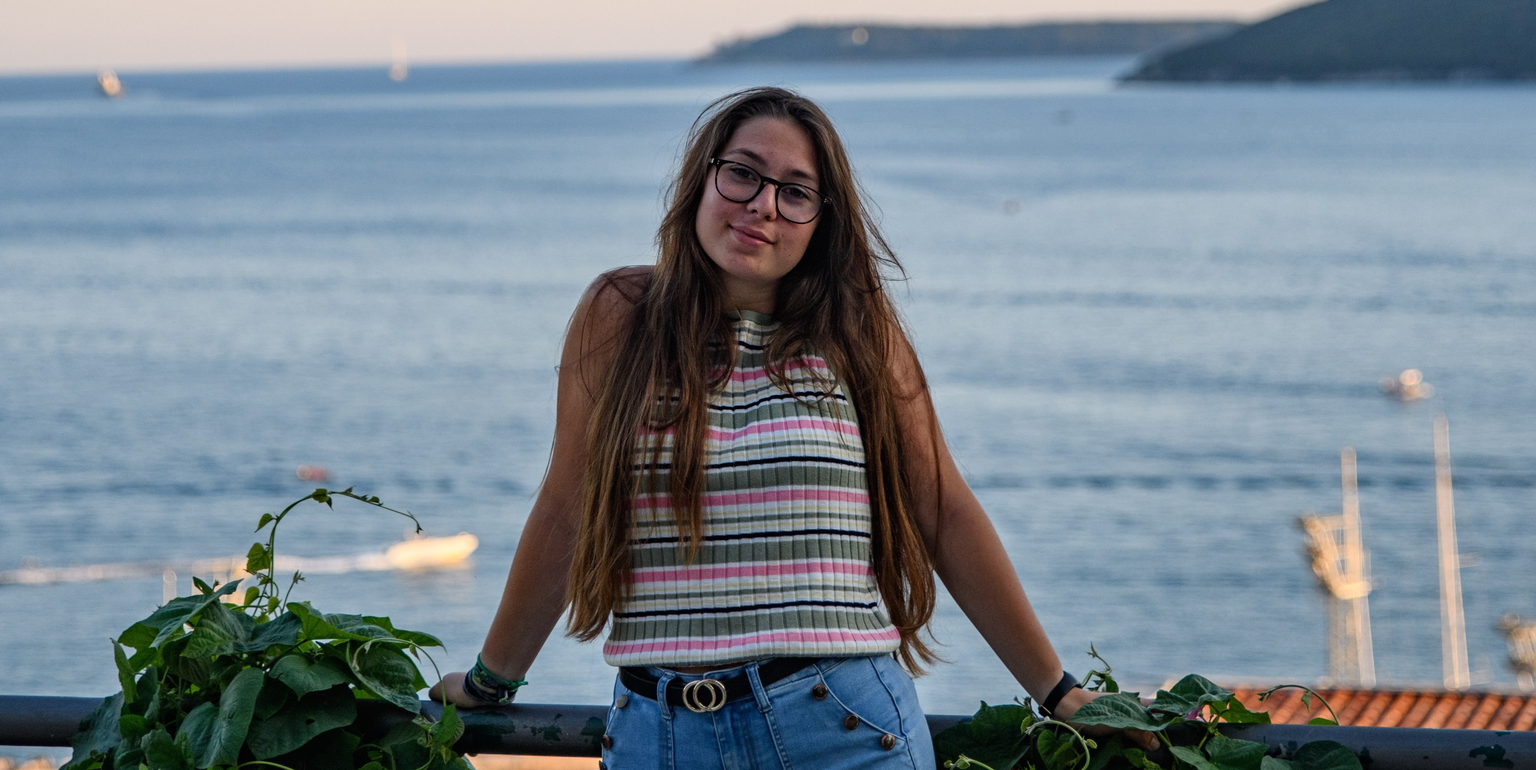
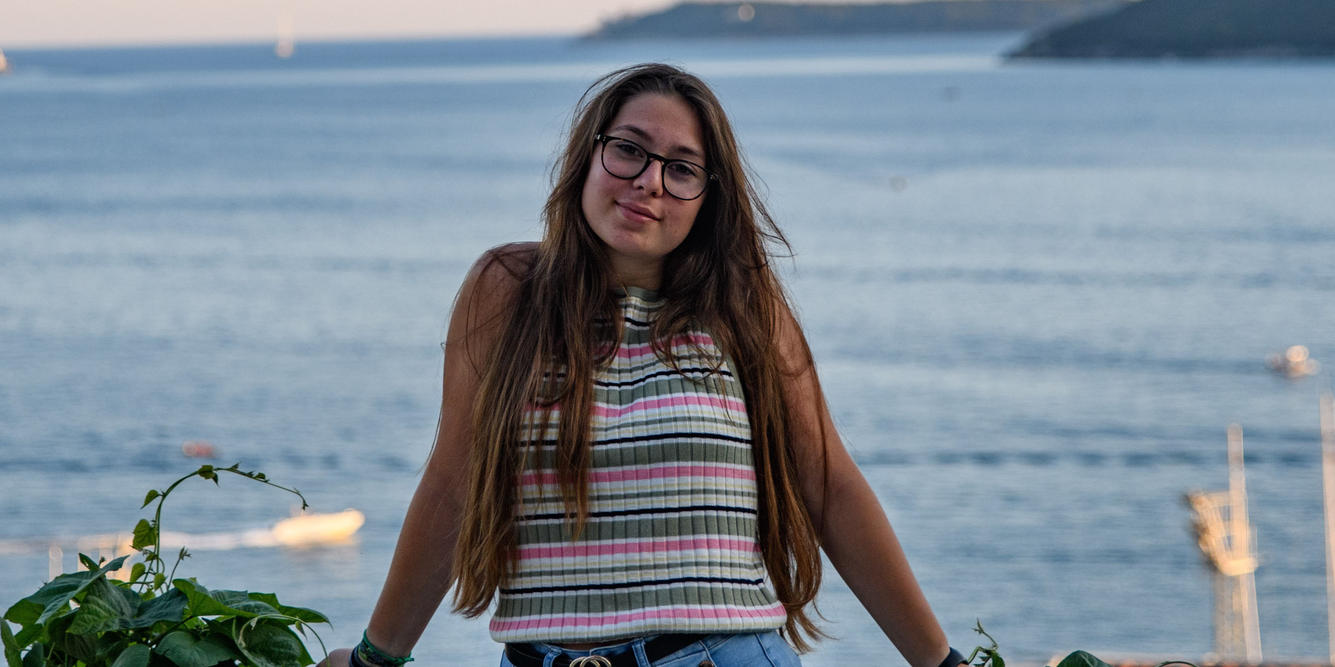
ohne_slideshow

diff --git a/Aufgabe_5/Portfolio/index.css b/Aufgabe_5/Portfolio/index.css
@@ -28,16 +28,14 @@ header li a {
 
 .logo:hover {
     width: 100px;
+    transition: 1s;
+    transform: scale(105%);
  }
 
 header li a img{
    width: 55px;
    margin: 0;
    padding: 0;
-}
-
-header li a img:hover {
-    width: 10px;
 }
 
 
@@ -130,18 +128,45 @@ footer{
     transform: scale(110%);    
 }
 
-.slideshow{
+#slideshow{
     width: 100%;
-    height: 600px;
+    height: 510px;
     overflow: hidden;
+    margin: 0 auto;
+    position: relative;
 }
 
-.wrapper {
-    display: flex;
+.slide {
+    float: left;
+    height: 510px;
     width: 100%; 
 }
 
 div img {
-    width: 100%;
+    height: 650px;
+    width: 100%; 
 }
 
+.slidewrapper {
+    width: calc(100% * 5);
+    animation: slide 5s ease infinite;
+}
+
+
+@keyframes slide {
+    20% {
+        margin-left: 0px;
+    }
+    40% {
+        margin-left: calc(-100% * 1);
+    }
+    60% {
+        margin-left: calc(-100% * 2);
+    }
+    80% {
+        margin-left: calc(-100% * 3);
+    }
+    100% {
+        margin-left: calc(-100% * 4);
+    }
+}

diff --git a/Aufgabe_5/Portfolio/index.html b/Aufgabe_5/Portfolio/index.html
@@ -21,17 +21,18 @@
                 <li style="float:left"><a class="logo" href="../Portfolio/"><img src="./Bilder/Logo.svg" alt="Logo HZB"></a></li>
             </ul>
     </header>
-<div class="slideshow">
-    <div class="wrapper">
-        <div class="slide first">
+<div id="slideshow">
+    <div class="slidewrapper">
+        <div class="slide">
             <img src="../Slideshow/Kopie_2345exp.jpg"></div>
-        <div class="slide second">
+        <div class="slide">
+            <img src="../Slideshow/EDR_1784exp.jpg"></div>
+        <div class="slide">
+            <img src="../Slideshow/Zuhause.jpg"></div>
+        <div class="slide">
+            <img src="../Slideshow/Anna_Ich.jpg"></div>
+        <div class="slide">
             <img src="../Slideshow/Jetsky.jpg"></div>
-        <div class="slide third">
-            <img src="../Slideshow/OpaAussicht.jpg"></div>
-        <div class="slide fourth">
-            <img src="../Slideshow/SUP.jpg"></div>
-
     </div>
 </div>
     
